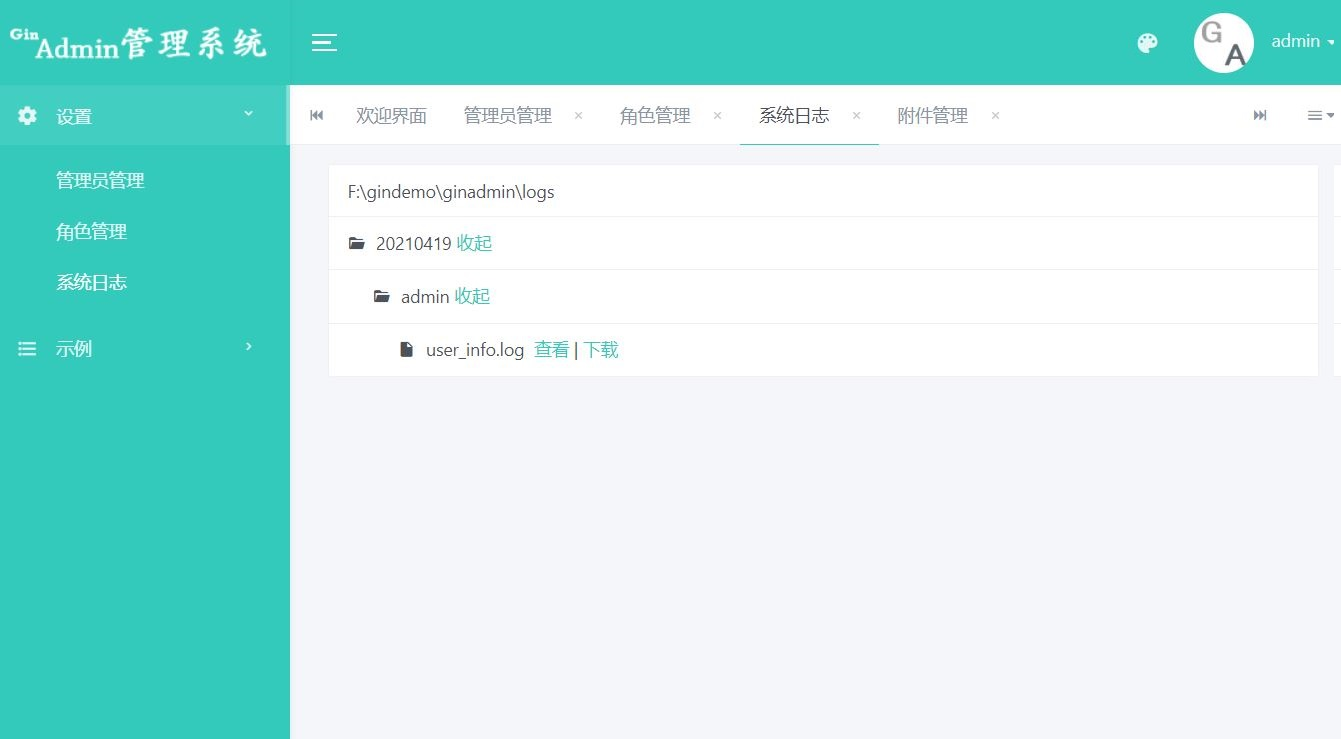
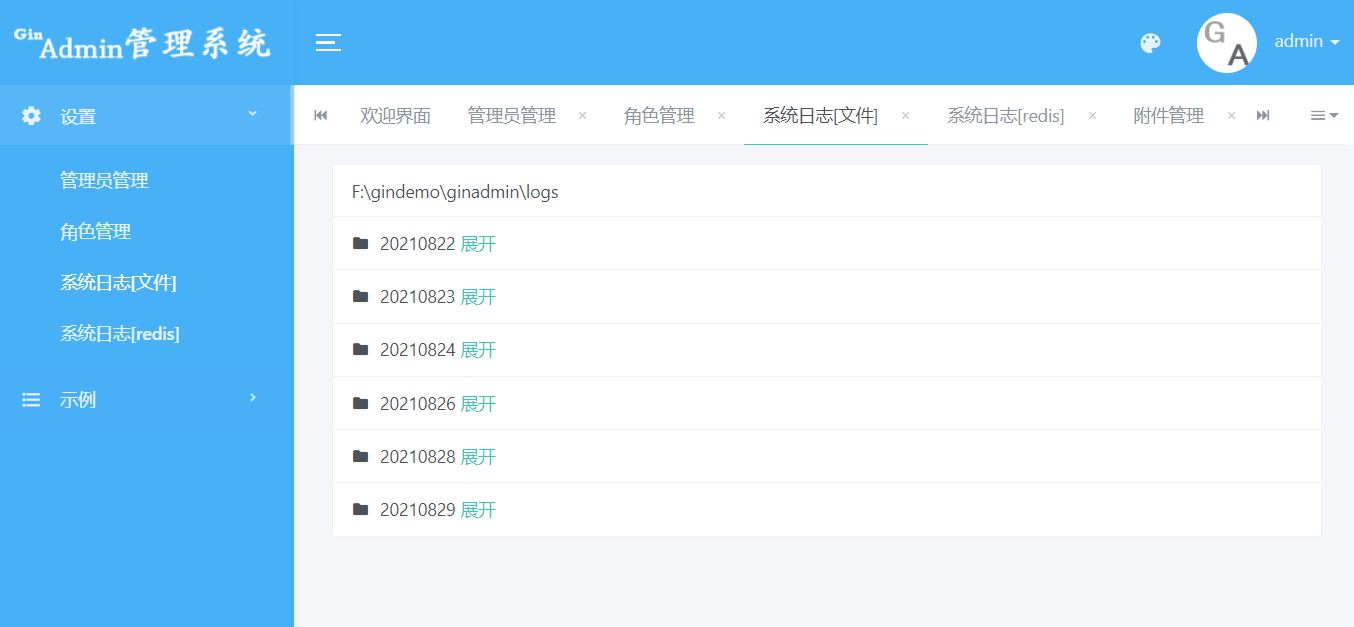
修改文档

diff --git a/internal/menu/menu.go b/internal/menu/menu.go
@@ -85,7 +85,7 @@ func GetMenu() []Menu {
 					},
 				},
 				{
-					NodeText:    "系统日志",
+					NodeText:    "系统日志[文件]",
 					NodeUrl:     "/admin/setting/system/index",
 					NodePriv:    "/admin/setting/system/index",
 					NodePrivAct: "get",
